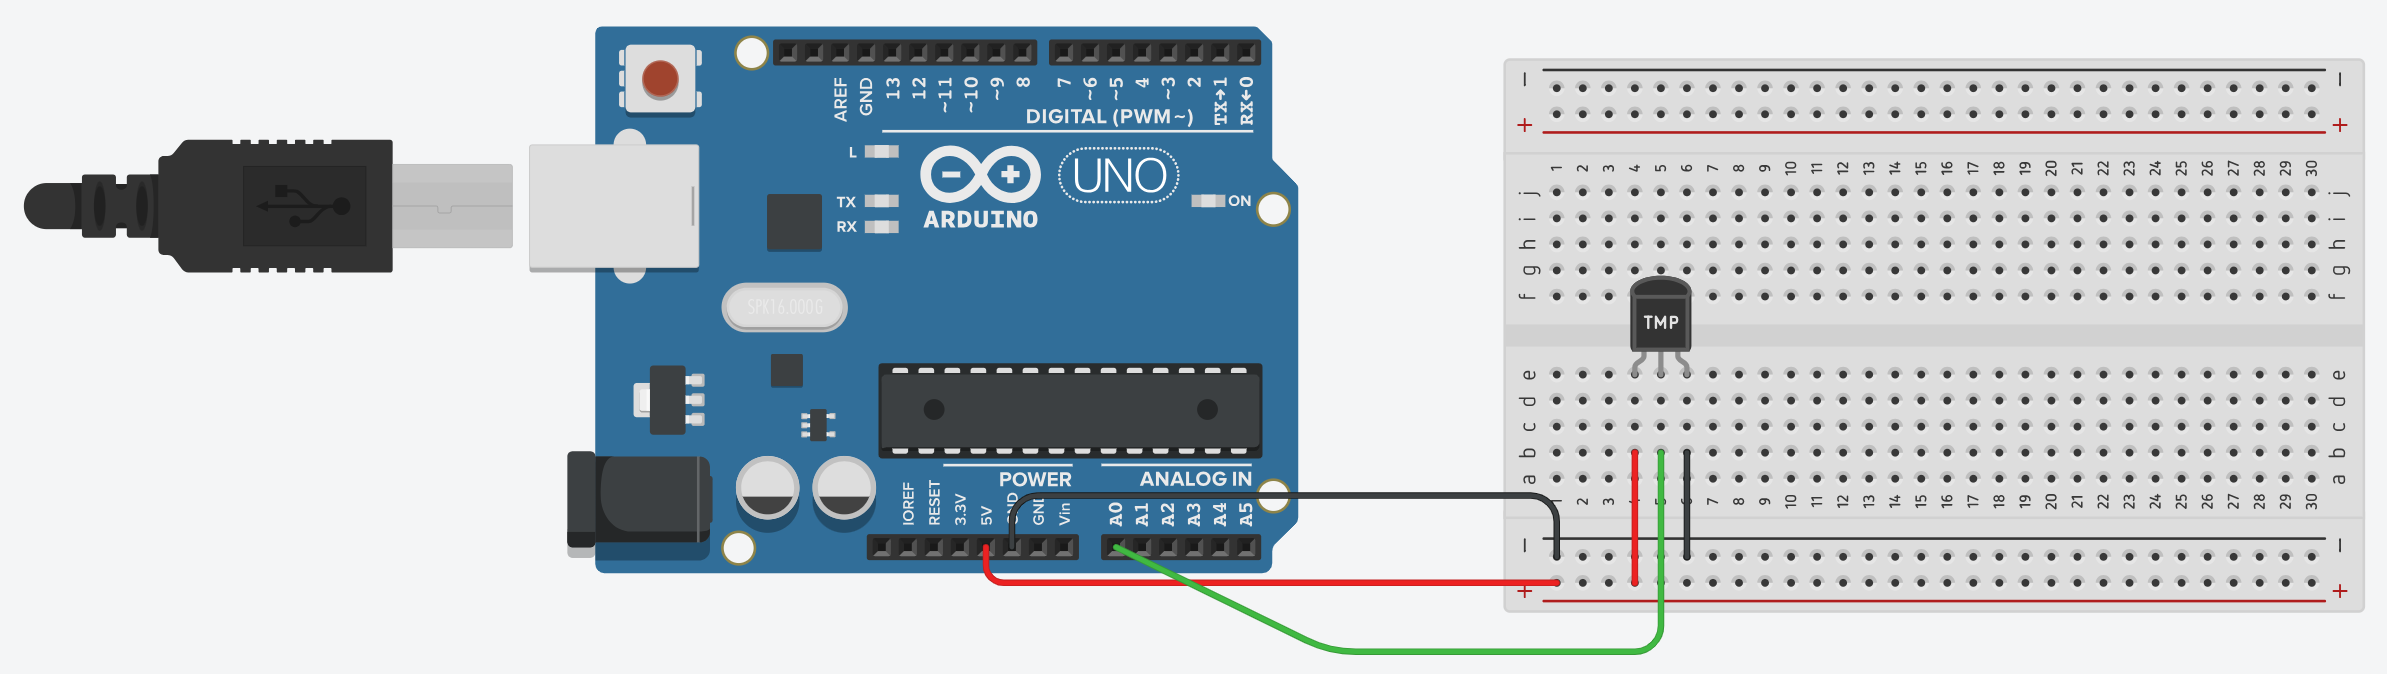
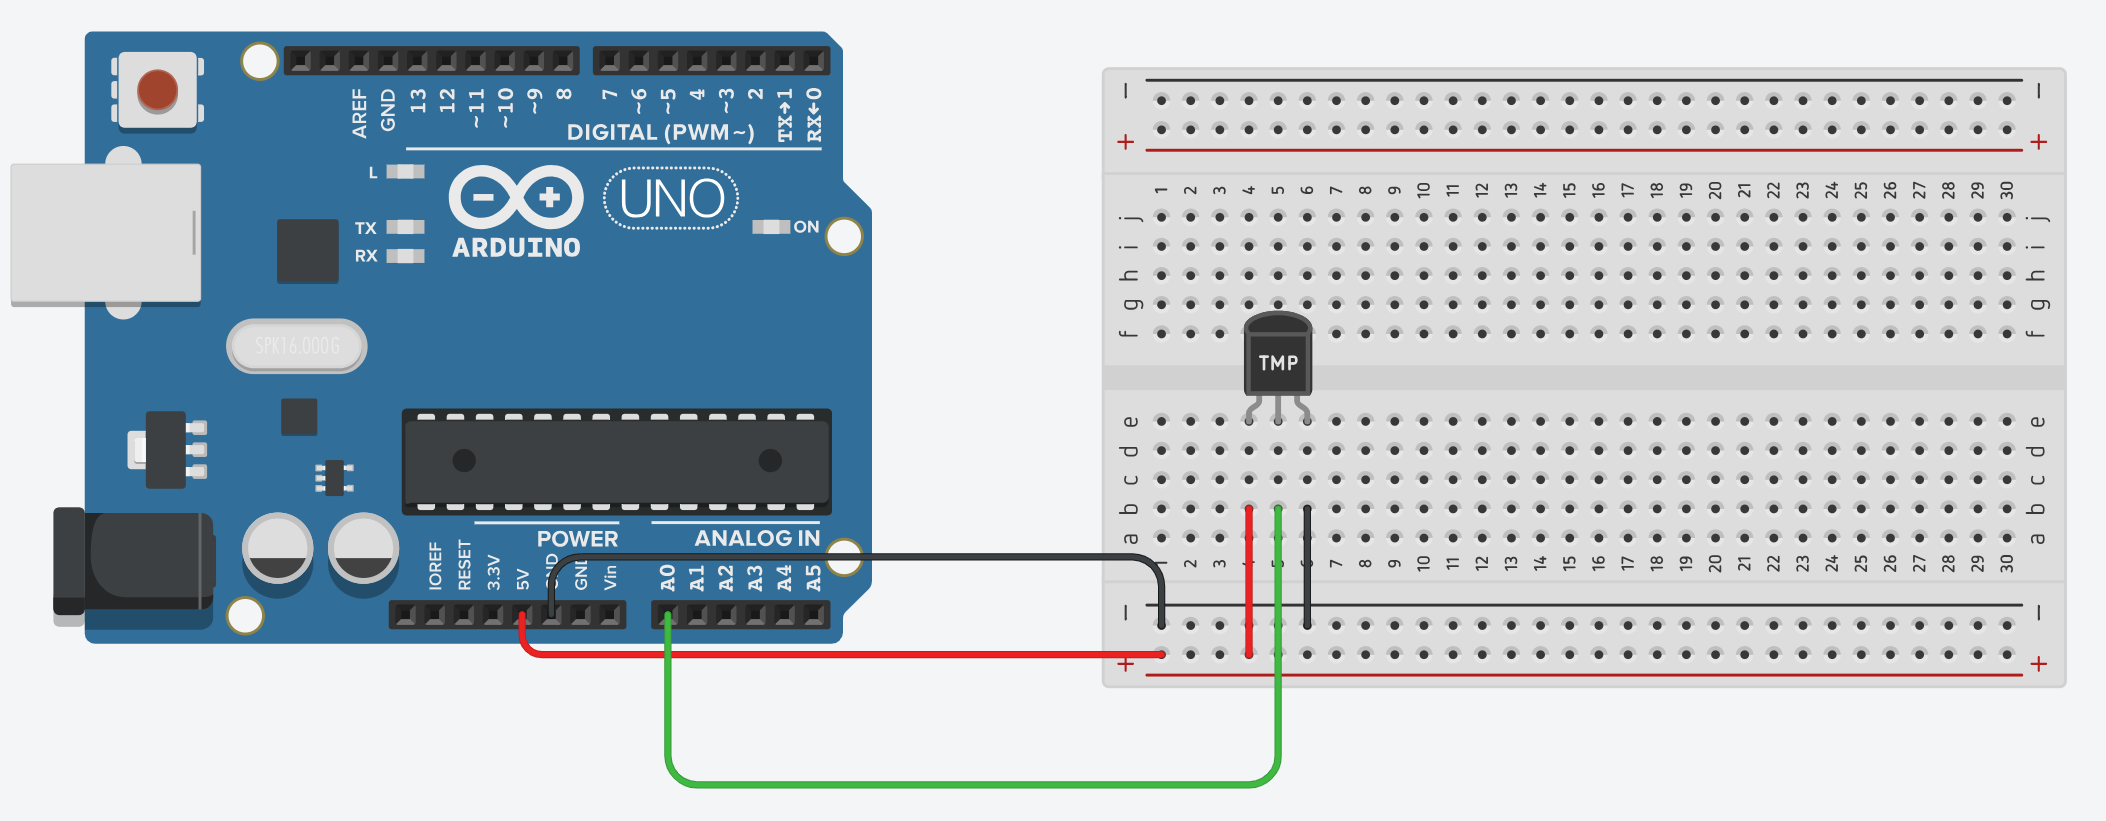
Updated readme and diagrams

diff --git a/README.md b/README.md
@@ -8,39 +8,49 @@ De Slaapongevingsmonitor Mini meet de temperatuur en de hoeveelheid licht in de 
 
 Het maken van deze slaapomgevingsmonitor Mini wordt uitgelegd in de volgende filmpjes:
 
-- [Filmpje 1: Introductie: het project]()
-  - Hierin worden de basis beginselen uitgelegd van elektronica en de Arduino
-  - [Programma](https://docs.arduino.cc/built-in-examples/basics/Blink/) om ingebouwde LED te laten knipperen
-- [Filmpje 2: Temperatuur meten]()
-  - [Schema](documentation/electrical-diagram-step-1.png) 
-  - [Programma](https://github.com/MartenSchukkinkROC/slaapomgevingsmonitor-mini/blob/step-1/slaapomgevingsmonitor-mini.ino)
-- [Filmpje 3: Licht meten]()
-  - [Schema](documentation/electrical-diagram-step-2.png)
-  - [Programma](https://github.com/MartenSchukkinkROC/slaapomgevingsmonitor-mini/blob/step-2/slaapomgevingsmonitor-mini.ino)
-- [Filmpje 4: Servo's gebruiken]()
-  - [Schema](documentation/electrical-diagram-step-3.png)
-  - [Programma](https://github.com/MartenSchukkinkROC/slaapomgevingsmonitor-mini/blob/main/slaapomgevingsmonitor-mini.ino)
+### [Filmpje 1](): Introductie van het project
+- Hierin worden de basis beginselen uitgelegd van elektronica en de Arduino
+  
+- [Programma](https://docs.arduino.cc/built-in-examples/basics/Blink/) om ingebouwde LED te laten knipperen
+### [Filmpje 2](): Temperatuur meten
+
+- Elektronisch schema
+
+  ![Schema](documentation/electrical-diagram-step-1.png)
+
+- [Programma](https://github.com/MartenSchukkinkROC/slaapomgevingsmonitor-mini/blob/step-1/slaapomgevingsmonitor-mini.ino) bij het schema
+### [Filmpje 3](): Licht meten
+- Elektronisch schema
+
+  ![Schema](documentation/electrical-diagram-step-2.png)
+
+- [Programma](https://github.com/MartenSchukkinkROC/slaapomgevingsmonitor-mini/blob/step-2/slaapomgevingsmonitor-mini.ino) bij het schema
+### [Filmpje 4](): Servo's gebruiken
+- Elektronisch schema
+
+  ![Schema](documentation/electrical-diagram-step-3.png)
+
+- [Programma](https://github.com/MartenSchukkinkROC/slaapomgevingsmonitor-mini/blob/main/slaapomgevingsmonitor-mini.ino) bij het schema
 
 ## Gebruikte onderdelen
-
+Algemeen
 - Arduino Uno R3 (met USB-kabel)
 - Breadboard
+- Jumper wires
+
+Fimpje 2
 - TMP36 temperatuursensor
+
+Filmpje 3
 - Fotogevoelige weestand (Photoresistor, Light Dependent Resistor, LDR)
 - Weerstand van 10 kΩ (bruin-zwart-oranje-goud)
+
+Filmpje 4
 - 2 Servo motoren
 - 2 Condesatoren van 100 µF
 - 2x3 Male header pins
-- Jumper wires
-- Stevig stuk karton of hout van ongeveer A4-formaat
+- A4 Kaarthouder of een stevig stuk karton of hout van ongeveer A4-formaat
 - Template om uit te printen (zie hieronder)
-
-## Elektrisch schema
-
-Het elektrische schema van het eindresultaat ziet er als volgt uit:
-
-![Electical diagram](documentation/electrical-diagram-step-3.png)
-
 
 ## Template
 Het template voor de figuur kun je [via deze pagina](documentation/template.pdf) downloaden. Klik op de pagina op de downloadlink om het in pdf-formaat te downloaden. Deze kun je uitprinten en op een stuk stevig karton of houten plaat plakken. De blauwe cirkels moeten geboord worden met een boor van 15mm. Hier komen straks de servo's in. De duimpjes moet je netjes uitknippen, deze worden op de armen van de servo's geplakt.
